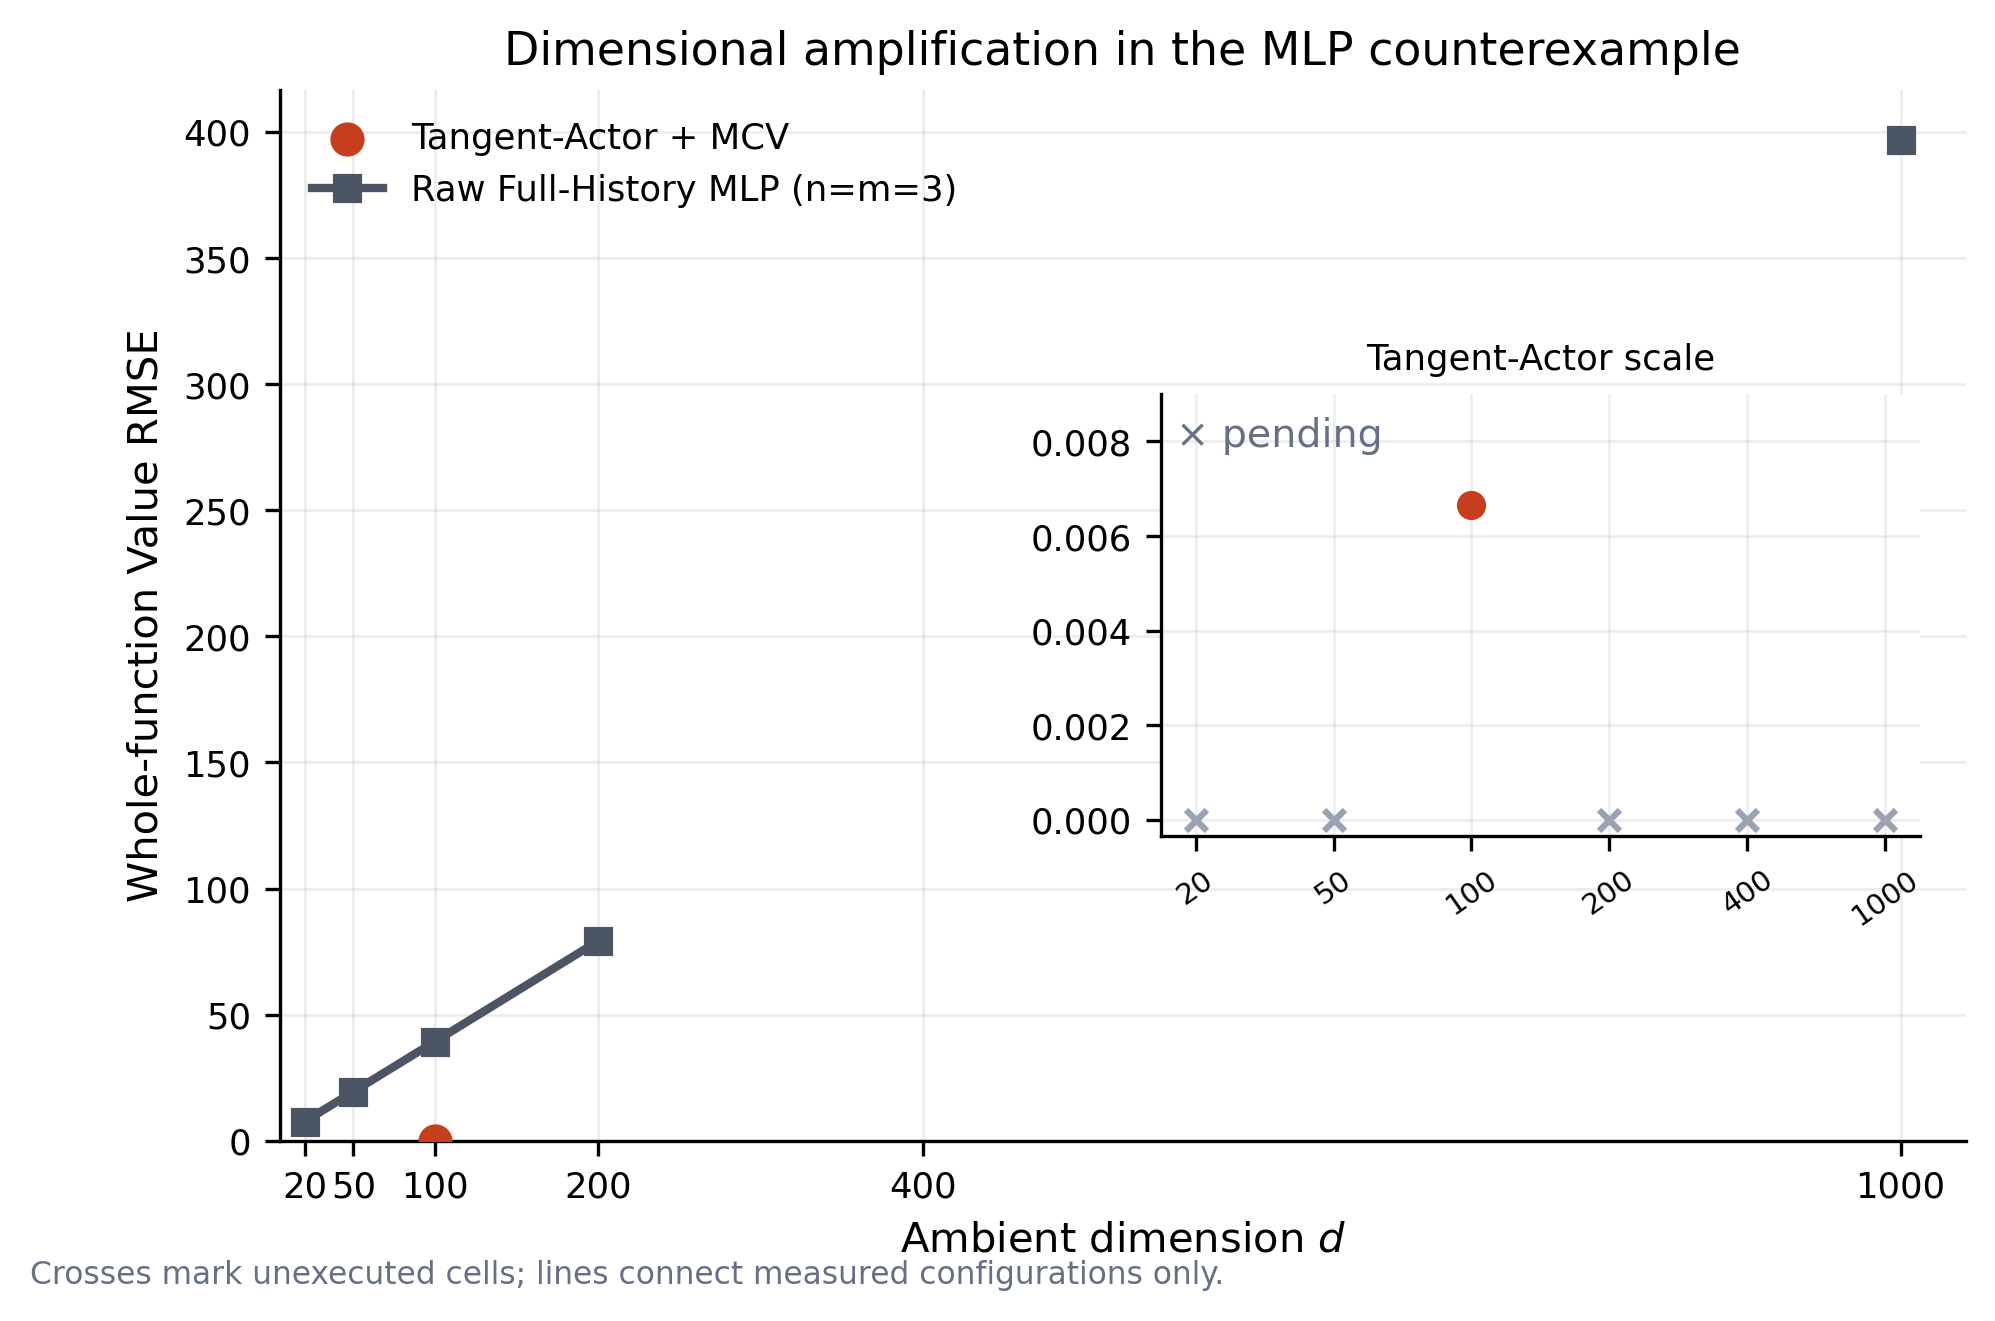
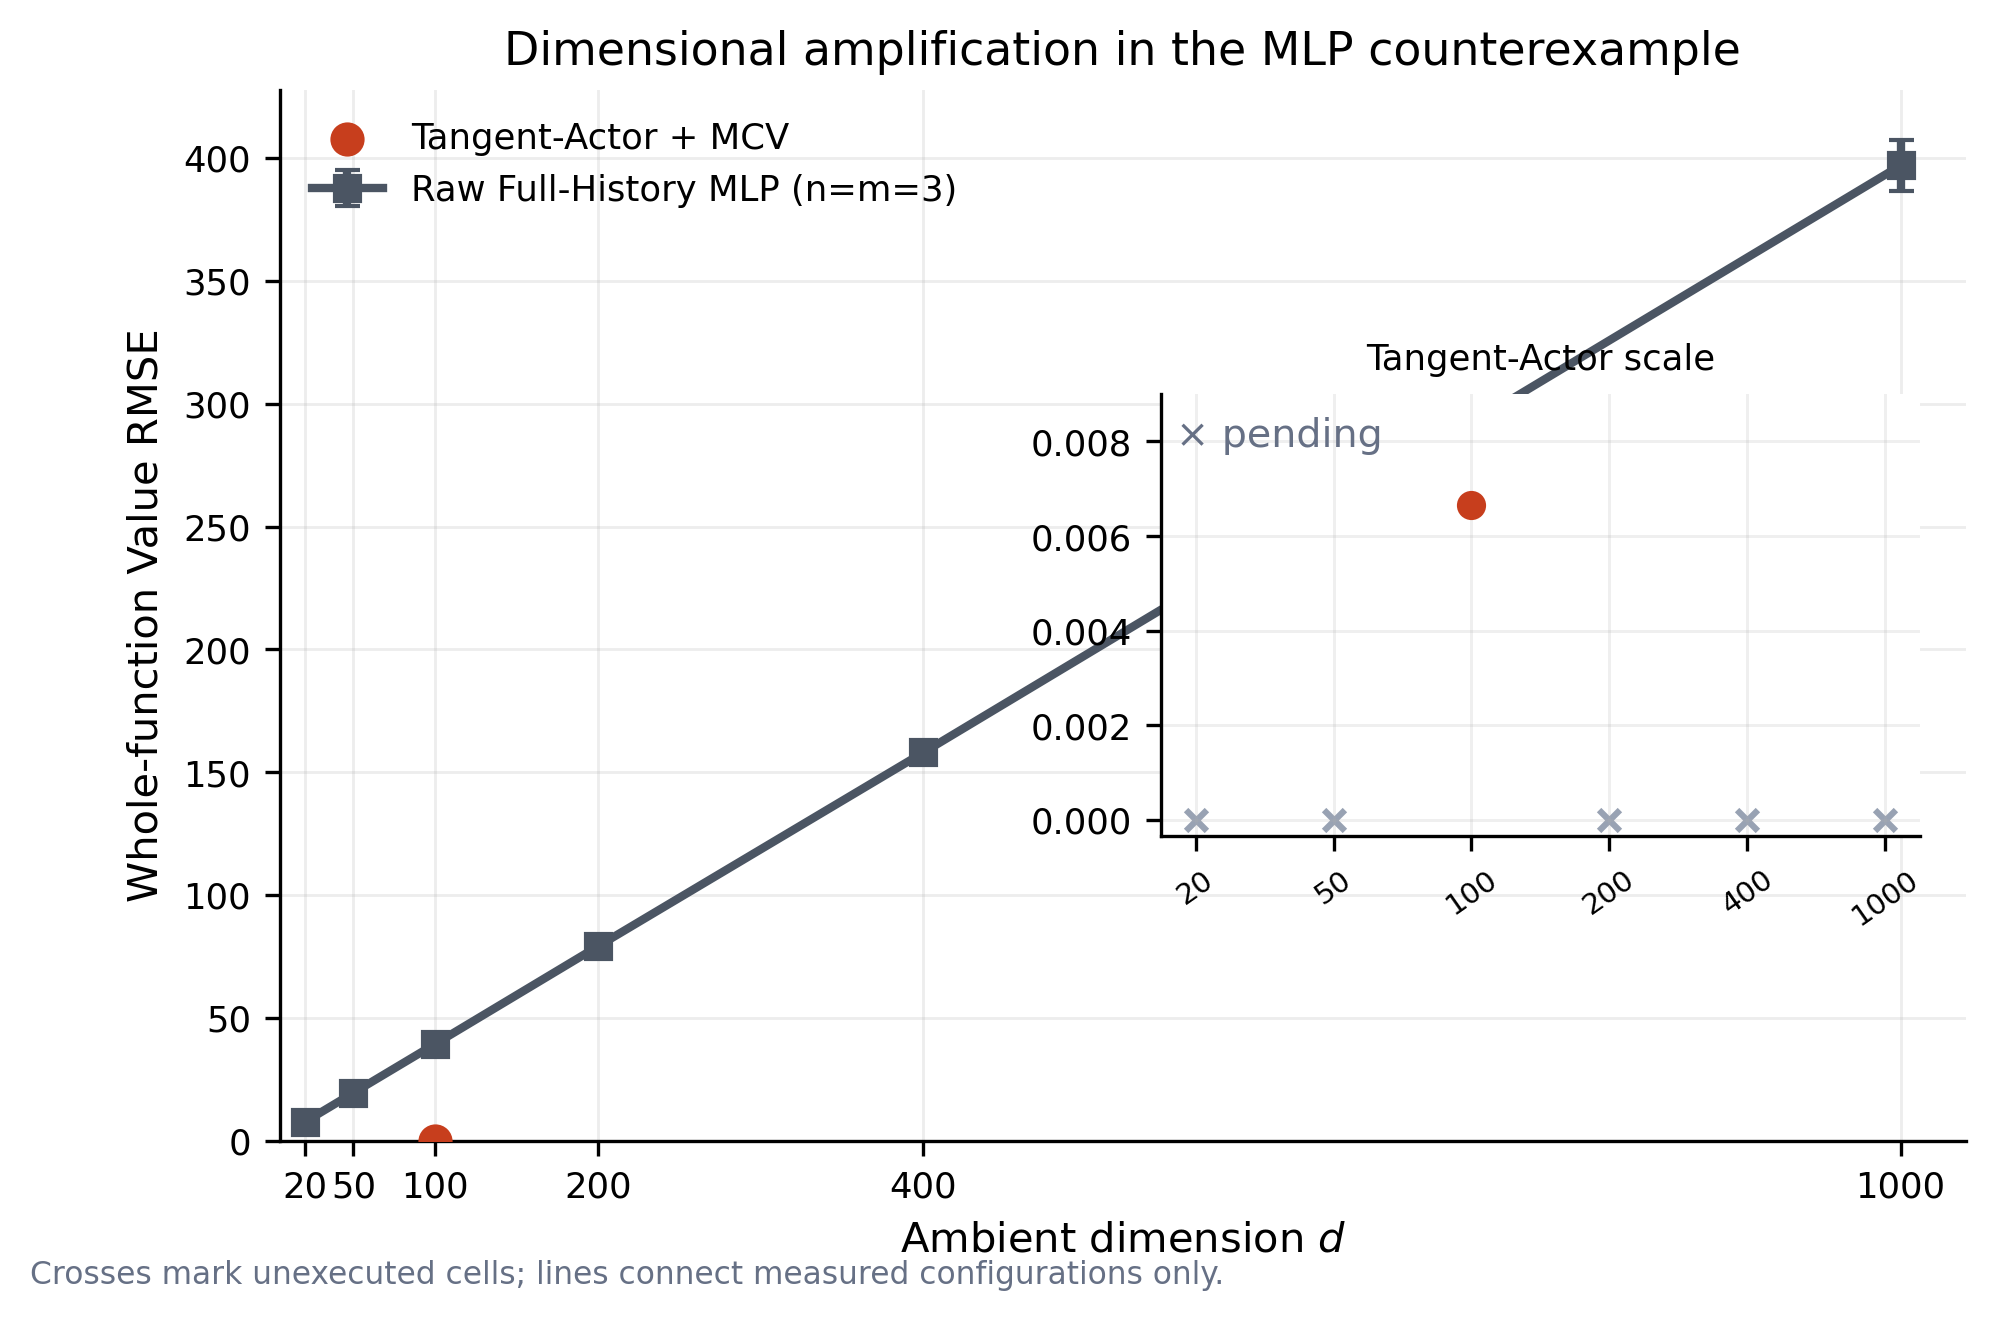
Complete raw MLP dimension reproduction

diff --git a/invariant_region_mlp/results/tangent_actor_icml_final_suite/FINAL_EXPERIMENT_REPORT.md b/invariant_region_mlp/results/tangent_actor_icml_final_suite/FINAL_EXPERIMENT_REPORT.md
@@ -148,13 +148,21 @@ fits, while the policy-value metric becomes MC limited after `a1`.
 
 ### MLP dimensional-failure mechanism
 
-At 100D, raw Full-History MLP with the audited `n=m=3` recursion has RMSE
-`39.2967`. The separately trained Tangent-Actor has 64-step MCV RMSE
+The reproduced raw Full-History MLP curve uses the audited `n=m=3` recursion
+and 512 independent repetitions per dimension. Its RMSEs at
+`d=20,50,100,200,400,1000` are respectively
+
+`7.5654, 19.4756, 39.2967, 79.0731, 158.0477, 396.9779`.
+
+All samples were finite. At the newly completed 400D point, the 95% bootstrap
+interval is `[154.1189, 162.0082]`. The separately trained 100D Tangent-Actor
+has 64-step MCV RMSE
 `0.0066623` and 128-step MCV RMSE `0.0063182`. This Tangent-Actor result uses
 the documented minimum-norm subgradient at the nonsmooth origin and is labeled
-`adapted`; it is not a smooth-PDE convergence theorem. The missing raw MLP
-400D point and remaining Tangent-Actor dimensions are still pending. No claim
-of fundamental Full-History MLP nonconvergence is made.
+`adapted`; it is not a smooth-PDE convergence theorem. The remaining
+Tangent-Actor dimensions are still pending. No claim of fundamental
+Full-History MLP nonconvergence is made; this is the frozen low-level mechanism
+experiment rather than an asymptotic convergence study.
 
 ### MCV and high-accuracy evidence
 
@@ -189,6 +197,12 @@ double counted. Failed and cancelled scheduler attempts remain visible in
 `RESOURCE_ACCOUNTING.csv`; the corrected pre-allocation cancellation consumed
 zero GPU time.
 
+The Full-History implementation is CPU-only, but the DeltaAI GH partition
+requires every submitted job to reserve a GPU. Its 11-second scheduler
+allocation is therefore charged as `0.0031` GH200 GPU-hours, bringing the
+incremental total to `2.1008` hours even though the algorithm did not use GPU
+arithmetic.
+
 No speed claim is currently supported. The final comparison will separate
 Actor fitting, reference-free model selection, frozen-model inference, and
 total allocated compute. Published baselines that are still improving at
@@ -208,11 +222,10 @@ present, and Allen–Cahn has no artificial MCV row. The suite status remains
 
 1. Run the source-faithful 100D Deep BSDE native solves and DPI, PINN-HTE, and
    SDGD-PINN whole-function transfers.
-2. Reproduce the six-dimensional raw Full-History MLP curve, including 400D.
-3. Execute dimension extremes, then the intermediate dimension grid.
-4. Complete missing independent training seeds and the frozen
+2. Execute dimension extremes, then the intermediate dimension grid.
+3. Complete missing independent training seeds and the frozen
    64/128/256/512 evaluation frontier.
-5. Regenerate all tables and figures, quantify incomplete or resource-limited
+4. Regenerate all tables and figures, quantify incomplete or resource-limited
    cells, and only then assign Scientific GO, Benchmark GO, and compute
    efficiency separately.
 

diff --git a/invariant_region_mlp/experiments/tangent_actor_icml_final_suite/PLAN.md b/invariant_region_mlp/experiments/tangent_actor_icml_final_suite/PLAN.md
@@ -30,9 +30,11 @@ has a common-bank post-freeze diagnostic for every `a0,...,a4` checkpoint; its
 reference-free selector chose `a3`, and no test truth entered training or
 selection. The corresponding joint-convex diagnostic is also complete; its
 reference-free selector chose `a4`, which had the smallest common-bank MCV
-error, though the `a3`--`a4` difference is below MC resolution. The next
-scheduled cells are the reproduced Full-History MLP dimension curve and the
-serial 100D external-baseline batches.
+error, though the `a3`--`a4` difference is below MC resolution. The frozen
+six-dimensional Full-History MLP reproduction is complete, including the
+previously missing 400D point, with 512 repetitions and bootstrap intervals at
+every dimension. The next scheduled cells are the serial 100D external-baseline
+batches.
 
 Validated resumable launchers now cover the Stage B baselines, Stage C Actor
 dimension extremes, Stage D remaining Actor dimensions, baseline dimension
